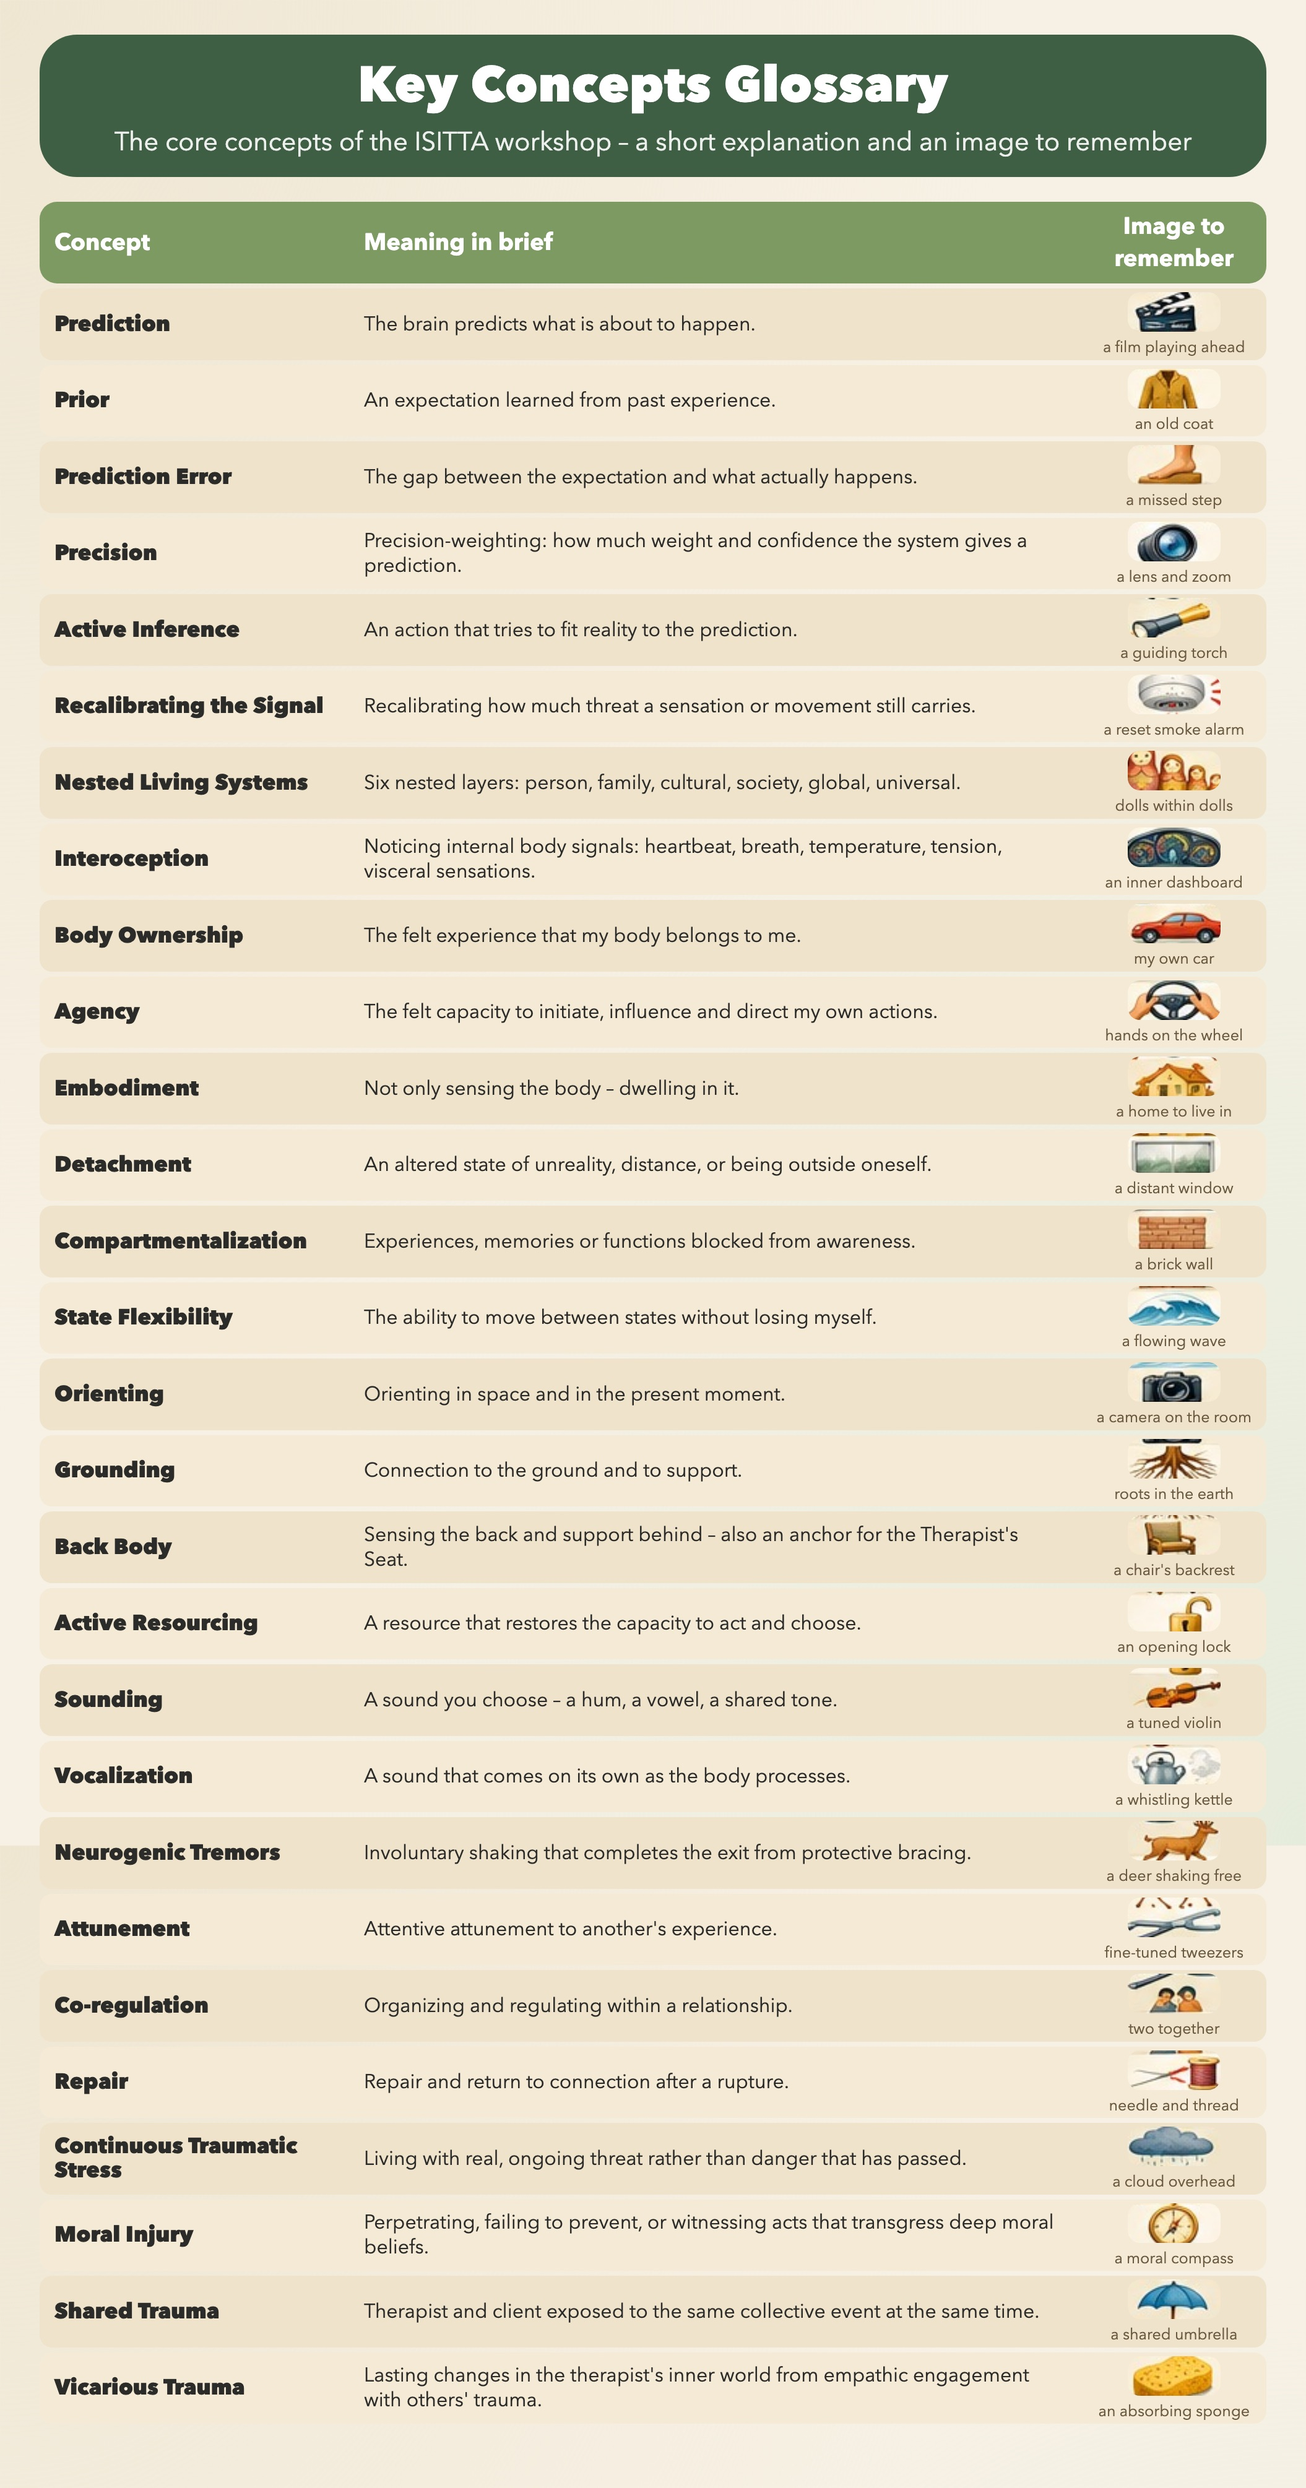
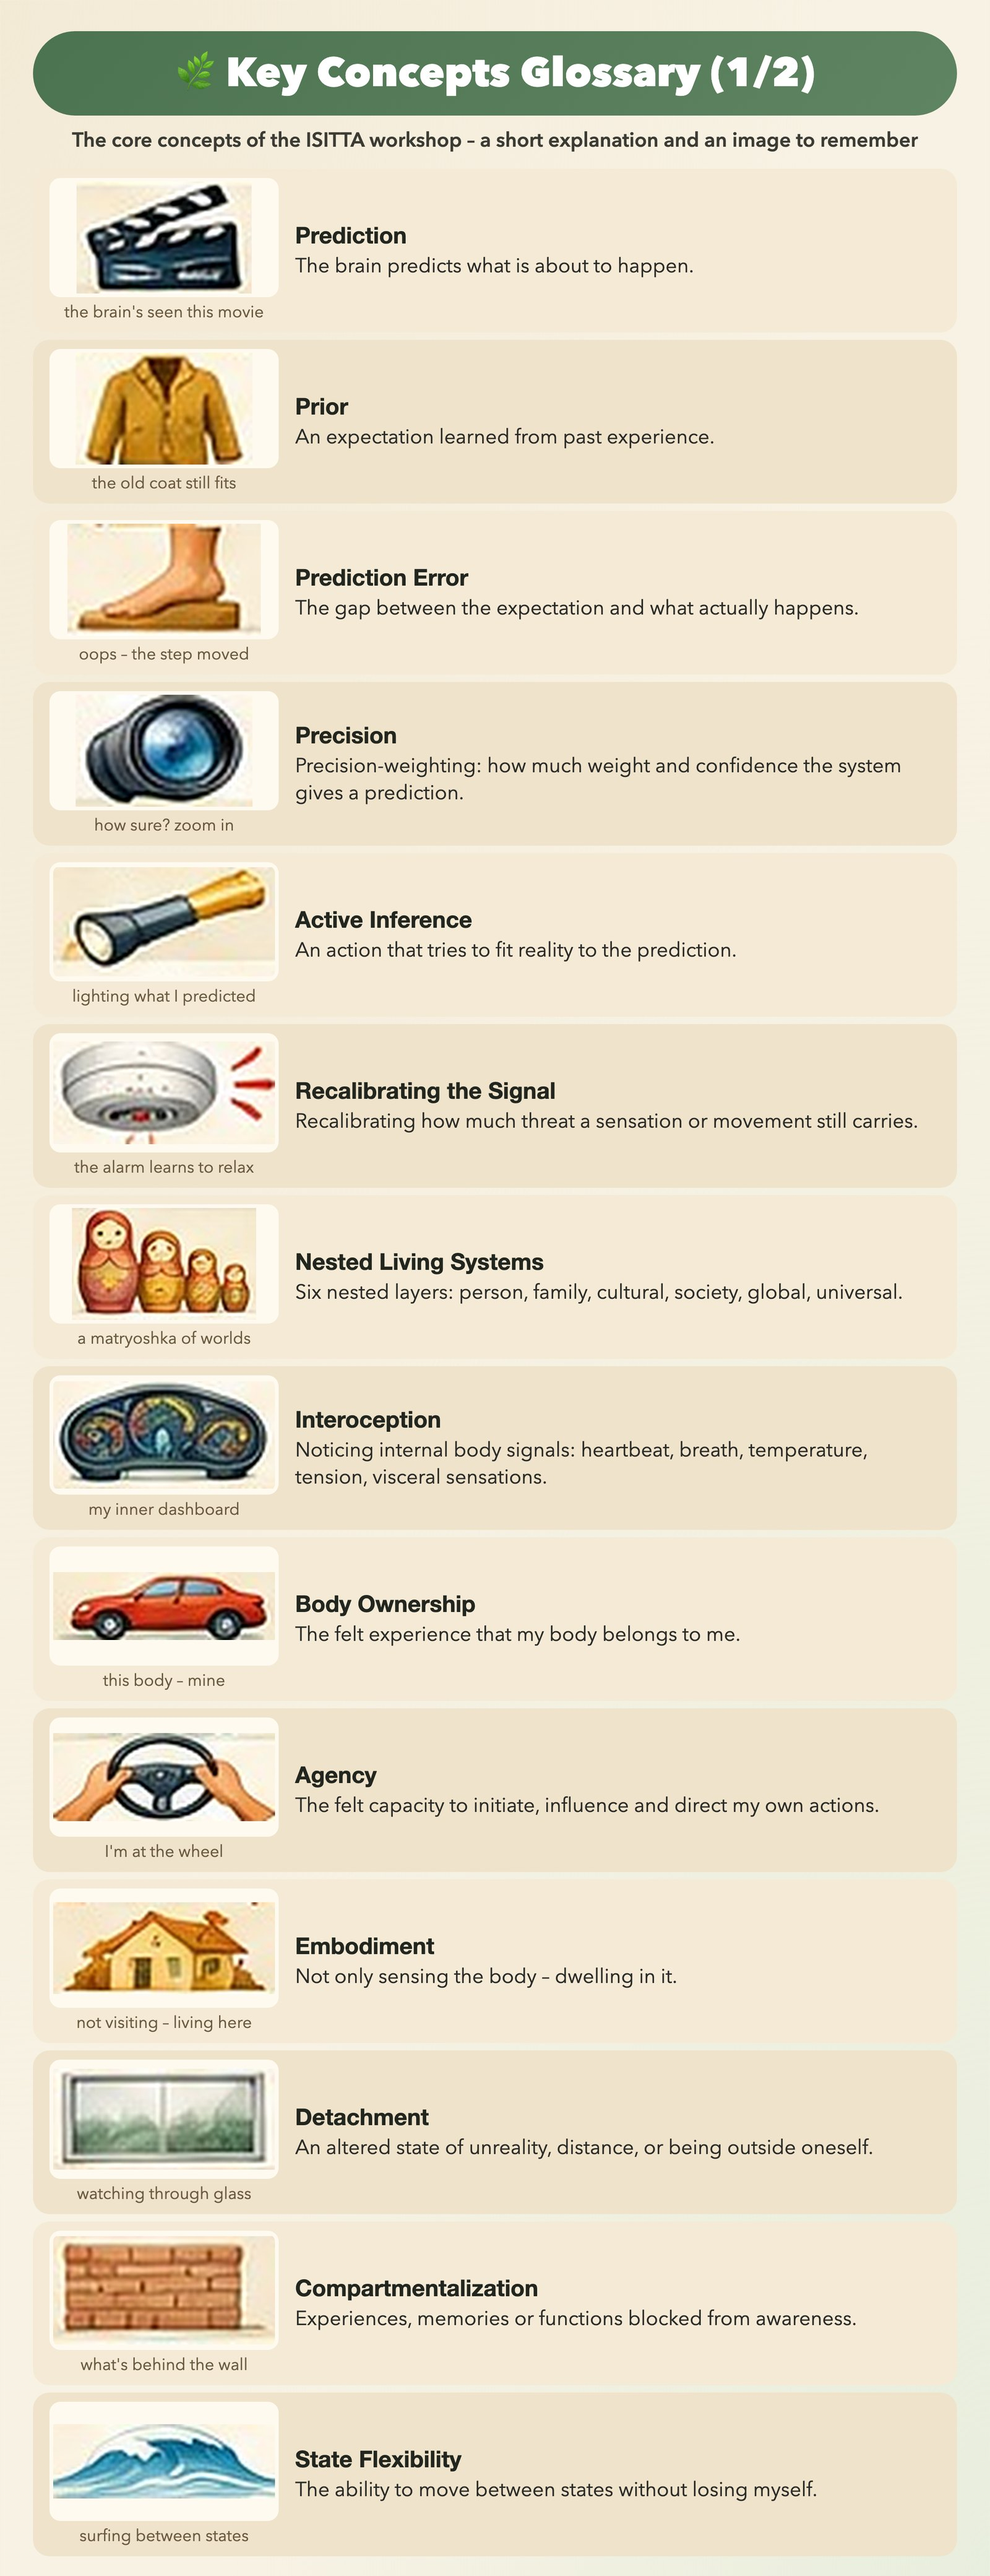
v2: enlarged glossary (2 parts), learning layer page, two-line footer

diff --git a/index.html b/index.html
@@ -21,7 +21,9 @@
   .set { display:none; } .set.on { display:block; }
   figure { margin:18px 0; background:var(--card); border:1px solid var(--line); border-radius:16px; padding:8px; }
   img { display:block; width:100%; height:auto; border-radius:10px; }
-  footer { text-align:center; font-size:13px; opacity:.7; padding:0 16px 30px; }
+  footer { max-width:960px; margin:0 auto; text-align:center; font-size:13px; line-height:1.6; opacity:.7; padding:0 16px 30px; }
+  footer p { margin:0; }
+  footer .nw { white-space:nowrap; }
 </style>
 </head>
 <body>
@@ -37,15 +39,22 @@
   <section class="set on" id="he" lang="he">
     <figure><img src="he/1.jpg" alt="מפת הלמידה הסומטית – חלק א׳"></figure>
     <figure><img src="he/2.jpg" alt="מפת הלמידה הסומטית – חלק ב׳"></figure>
-    <figure><img src="he/3.jpg" alt="מילון מושגים מרכזי עם דימוי לזכירה"></figure>
+    <figure><img src="he/3.jpg" alt="מילון מושגים מרכזי עם דימוי לזכירה – חלק 1" loading="lazy"></figure>
+    <figure><img src="he/4.jpg" alt="מילון מושגים מרכזי עם דימוי לזכירה – חלק 2" loading="lazy"></figure>
+    <figure><img src="he/5.jpg" alt="שכבת הלמידה – איך ללמוד את המפה" loading="lazy"></figure>
   </section>
   <section class="set" id="en" lang="en" dir="ltr">
     <figure><img src="en/1.jpg" alt="The Somatic Learning Map – Part A"></figure>
     <figure><img src="en/2.jpg" alt="The Somatic Learning Map – Part B"></figure>
-    <figure><img src="en/3.jpg" alt="Key Concepts Glossary"></figure>
+    <figure><img src="en/3.jpg" alt="Key Concepts Glossary – part 1" loading="lazy"></figure>
+    <figure><img src="en/4.jpg" alt="Key Concepts Glossary – part 2" loading="lazy"></figure>
+    <figure><img src="en/5.jpg" alt="The Learning Layer – how to learn the map" loading="lazy"></figure>
   </section>
 </main>
-<footer>מפה אישית שלי, מבוססת על חומרי סדנת ISITTA® של מנואלה מישקה־רידס, MA, MFT · My personal map, based on ISITTA® workshop materials by Manuela Mischke-Reeds, MA, MFT</footer>
+<footer>
+  <p lang="he" dir="rtl">מפה אישית שלי, מבוססת על חומרי סדנת ISITTA® של <span class="nw">מנואלה מישקה־רידס, MA, MFT</span></p>
+  <p lang="en" dir="ltr">My personal map, based on ISITTA® workshop materials by <span class="nw">Manuela Mischke-Reeds, MA, MFT</span></p>
+</footer>
 <script>
   function show(id) {
     for (const s of document.querySelectorAll('.set')) s.classList.toggle('on', s.id === id);
